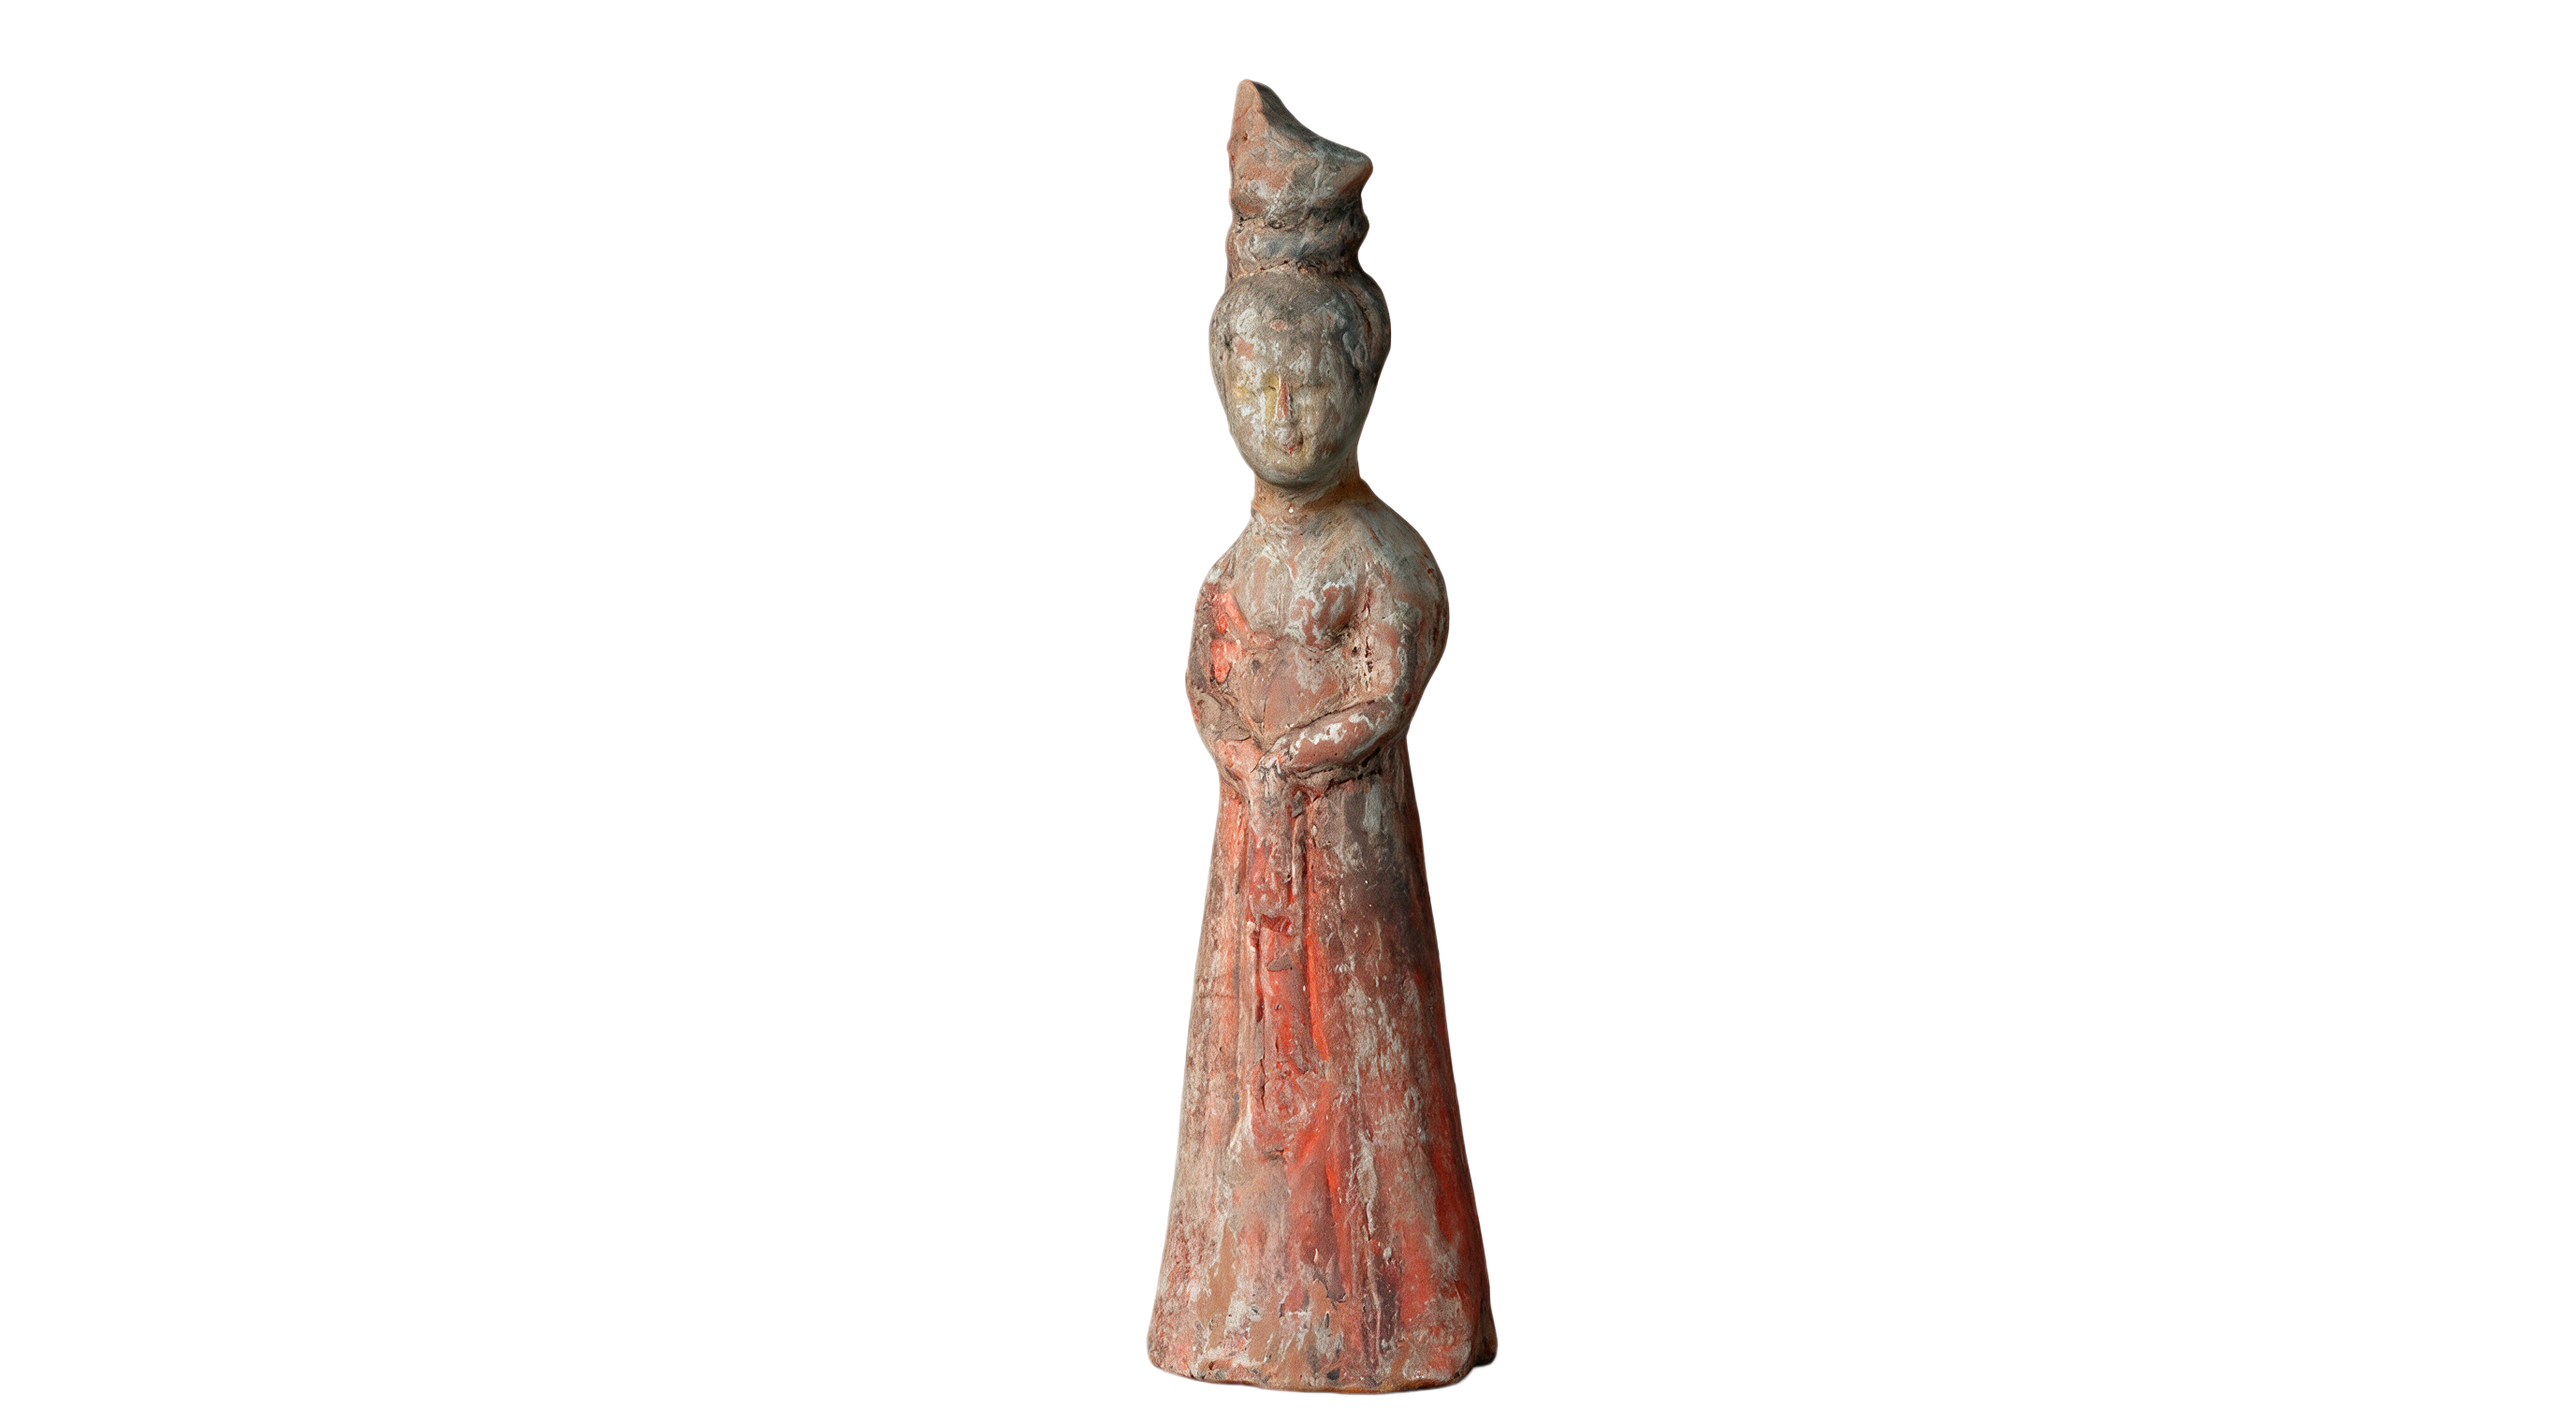
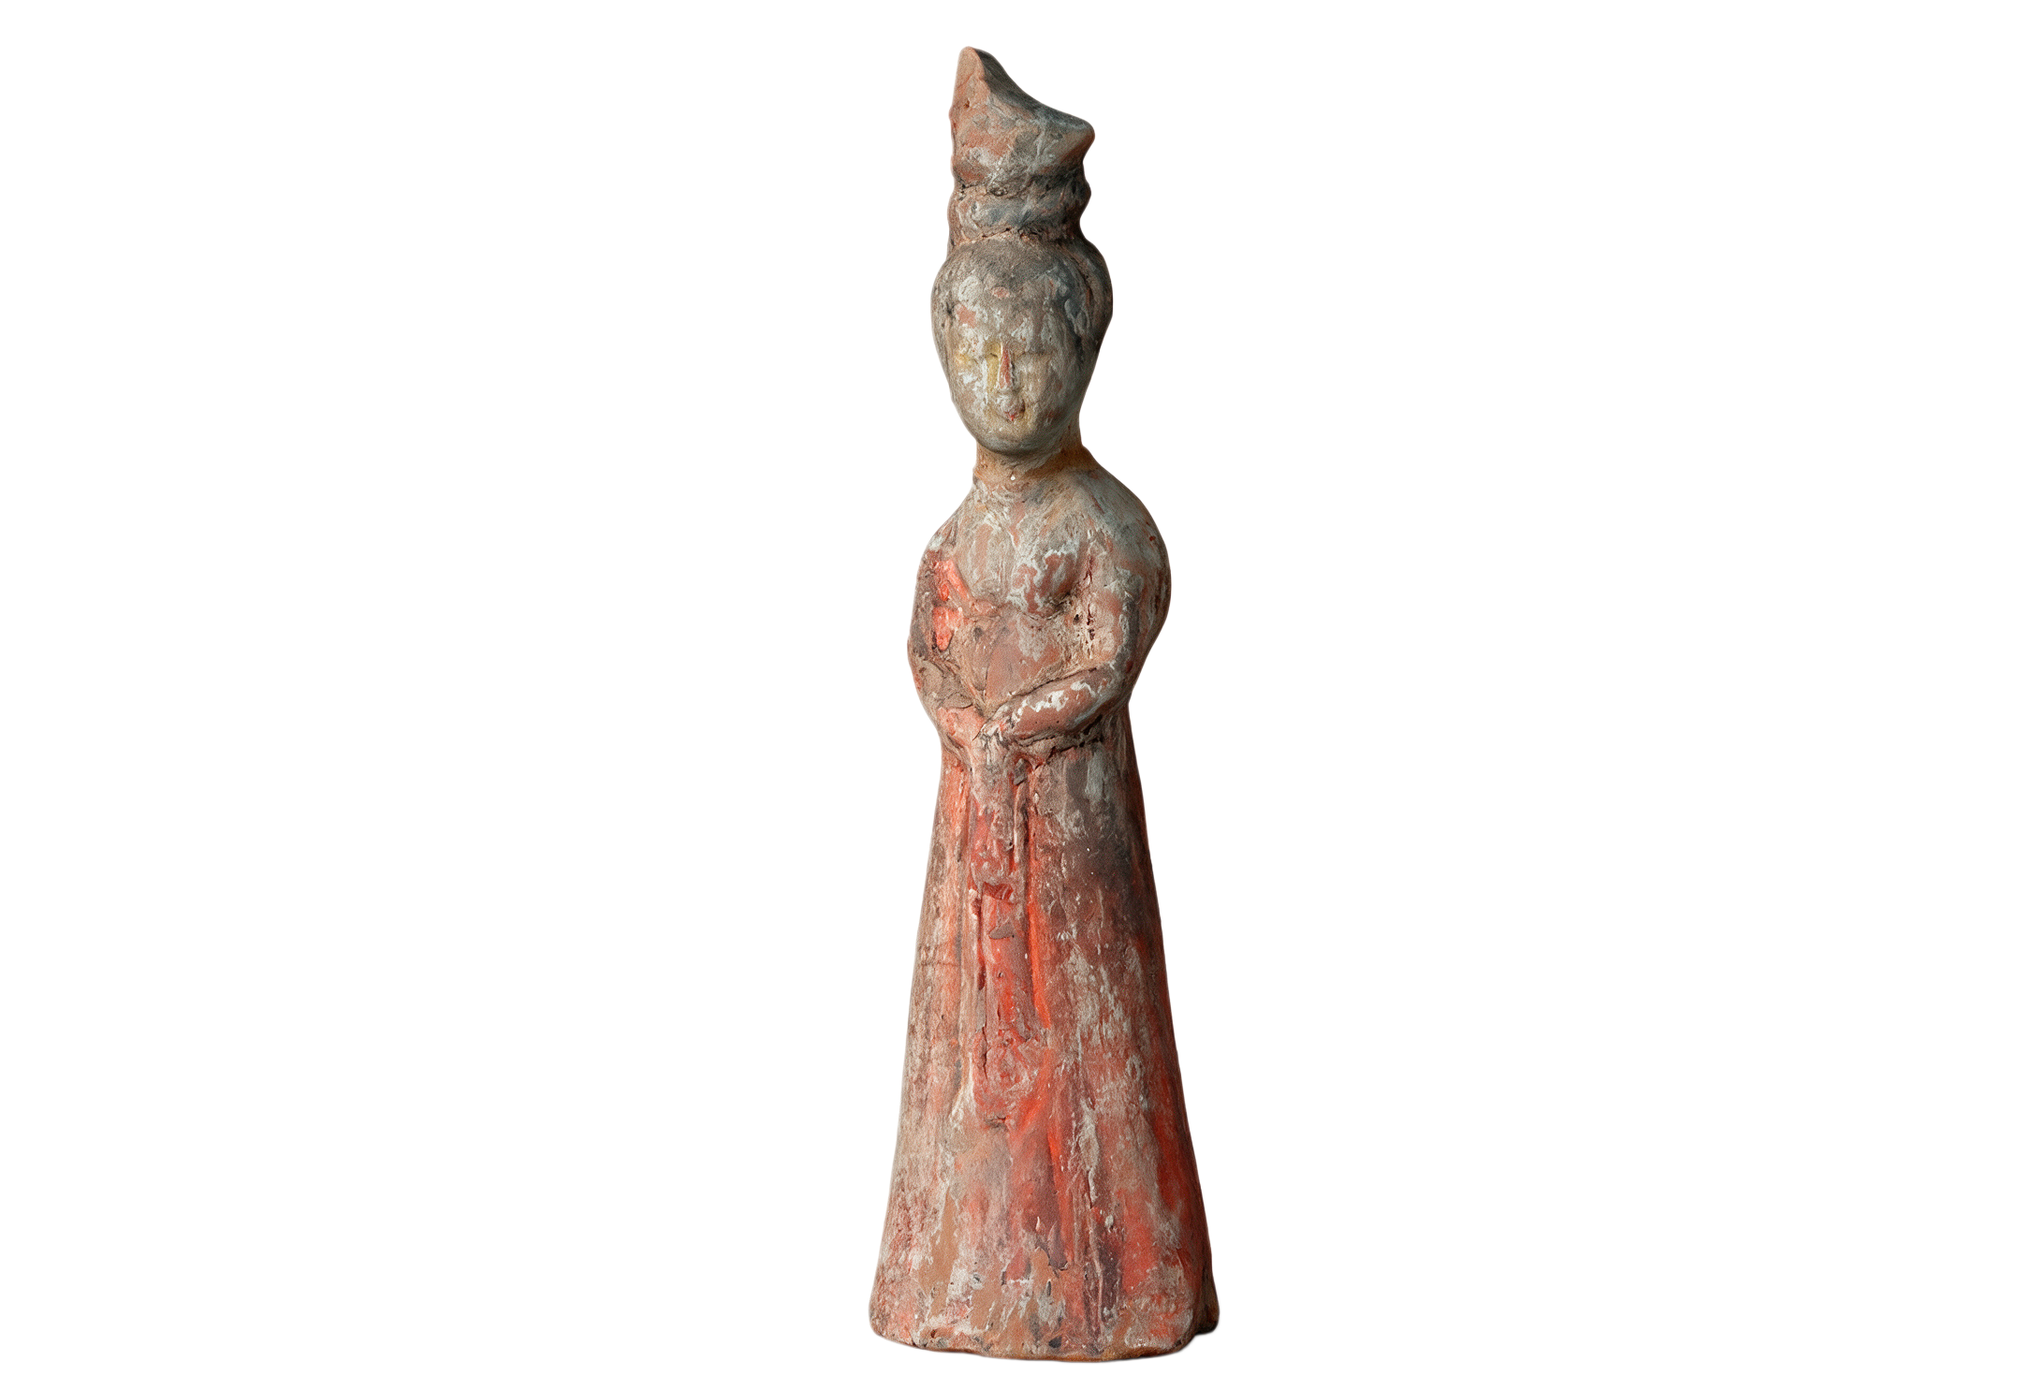
调整视角

Changed region(s): [[0.4042, 0.031, 0.6218, 0.9912]]

diff --git a/src/main.js b/src/main.js
@@ -3219,7 +3219,6 @@ function navigateToStructure(index, options = {}) {
   target.z += THREE.MathUtils.clamp(focusSizeVector.z * .05, .04, .22);
   const size = focusBounds.isEmpty() ? new THREE.Box3().setFromObject(group).getSize(new THREE.Vector3()).length() : focusSizeVector.length();
   const endPosition = target.clone().add(cameraOffsetForStructure(index, size));
-  if (options.source === "narrative") applyResponsiveShotOffset(endPosition, target);
   selectStructure(index, focusIndices, options.narrativeId);
   logVisualProcess(`镜头切换：${group.userData.name}，同侧连续观察`);
   animateCamera(endPosition, target, STRUCTURE_SHOT_FOV[index] || preset?.fov || 42, () => {
@@ -3237,7 +3236,7 @@ function navigateToOverall(options = {}) {
   selectStructure(anchorIndex, focusIndices, options.narrativeId);
   const endPosition = overallView.position.clone();
   const endTarget = overallView.target.clone();
-  if (narrativeEntry) applyResponsiveShotOffset(endPosition, endTarget);
+  if (narrativeEntry && anchorIndex >= 0) applyResponsiveShotOffset(endPosition, endTarget);
   logVisualProcess("镜头切换：整体总览，同侧轴线视角");
   animateCamera(endPosition, endTarget, overallView.fov, () => {
     document.querySelector("#status").textContent = narrativeEntry
@@ -3609,6 +3608,7 @@ function setupInterface() {
     if (event.type === "keydown" && event.key !== "Enter" && event.key !== " ") return;
     event.preventDefault();
     stopAutoDemo();
+    autoDemoStep = 0;
     setView("model", event);
     scheduleAutoDemo();
   };
